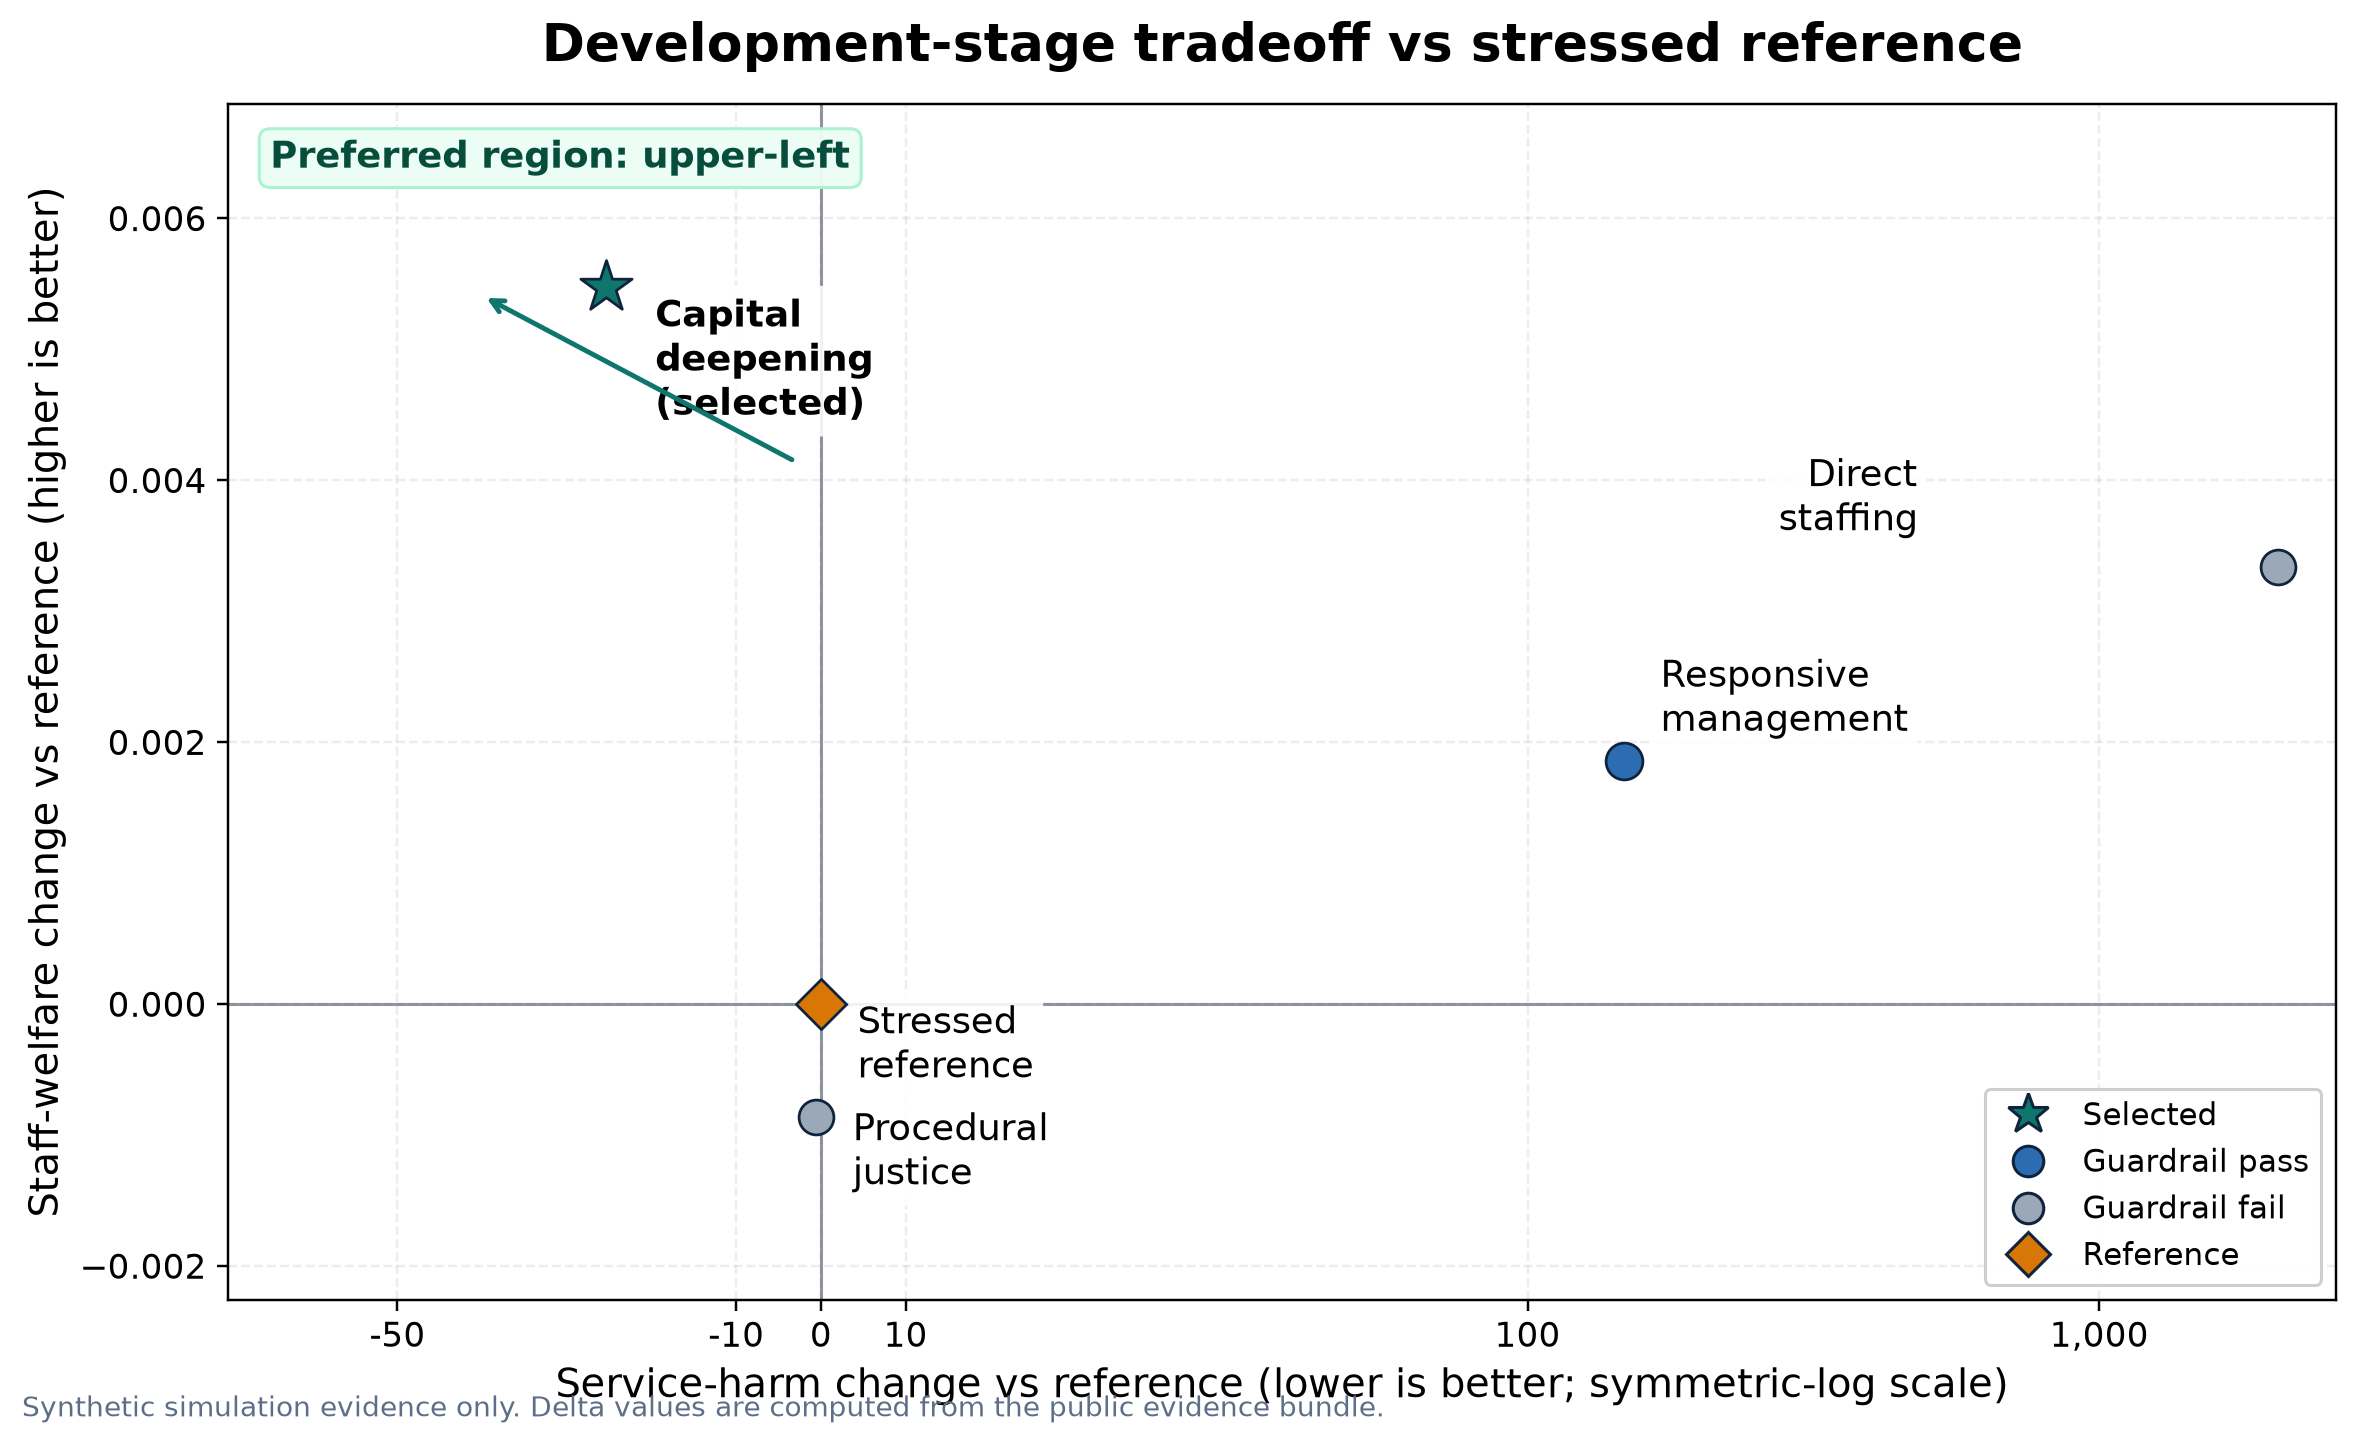
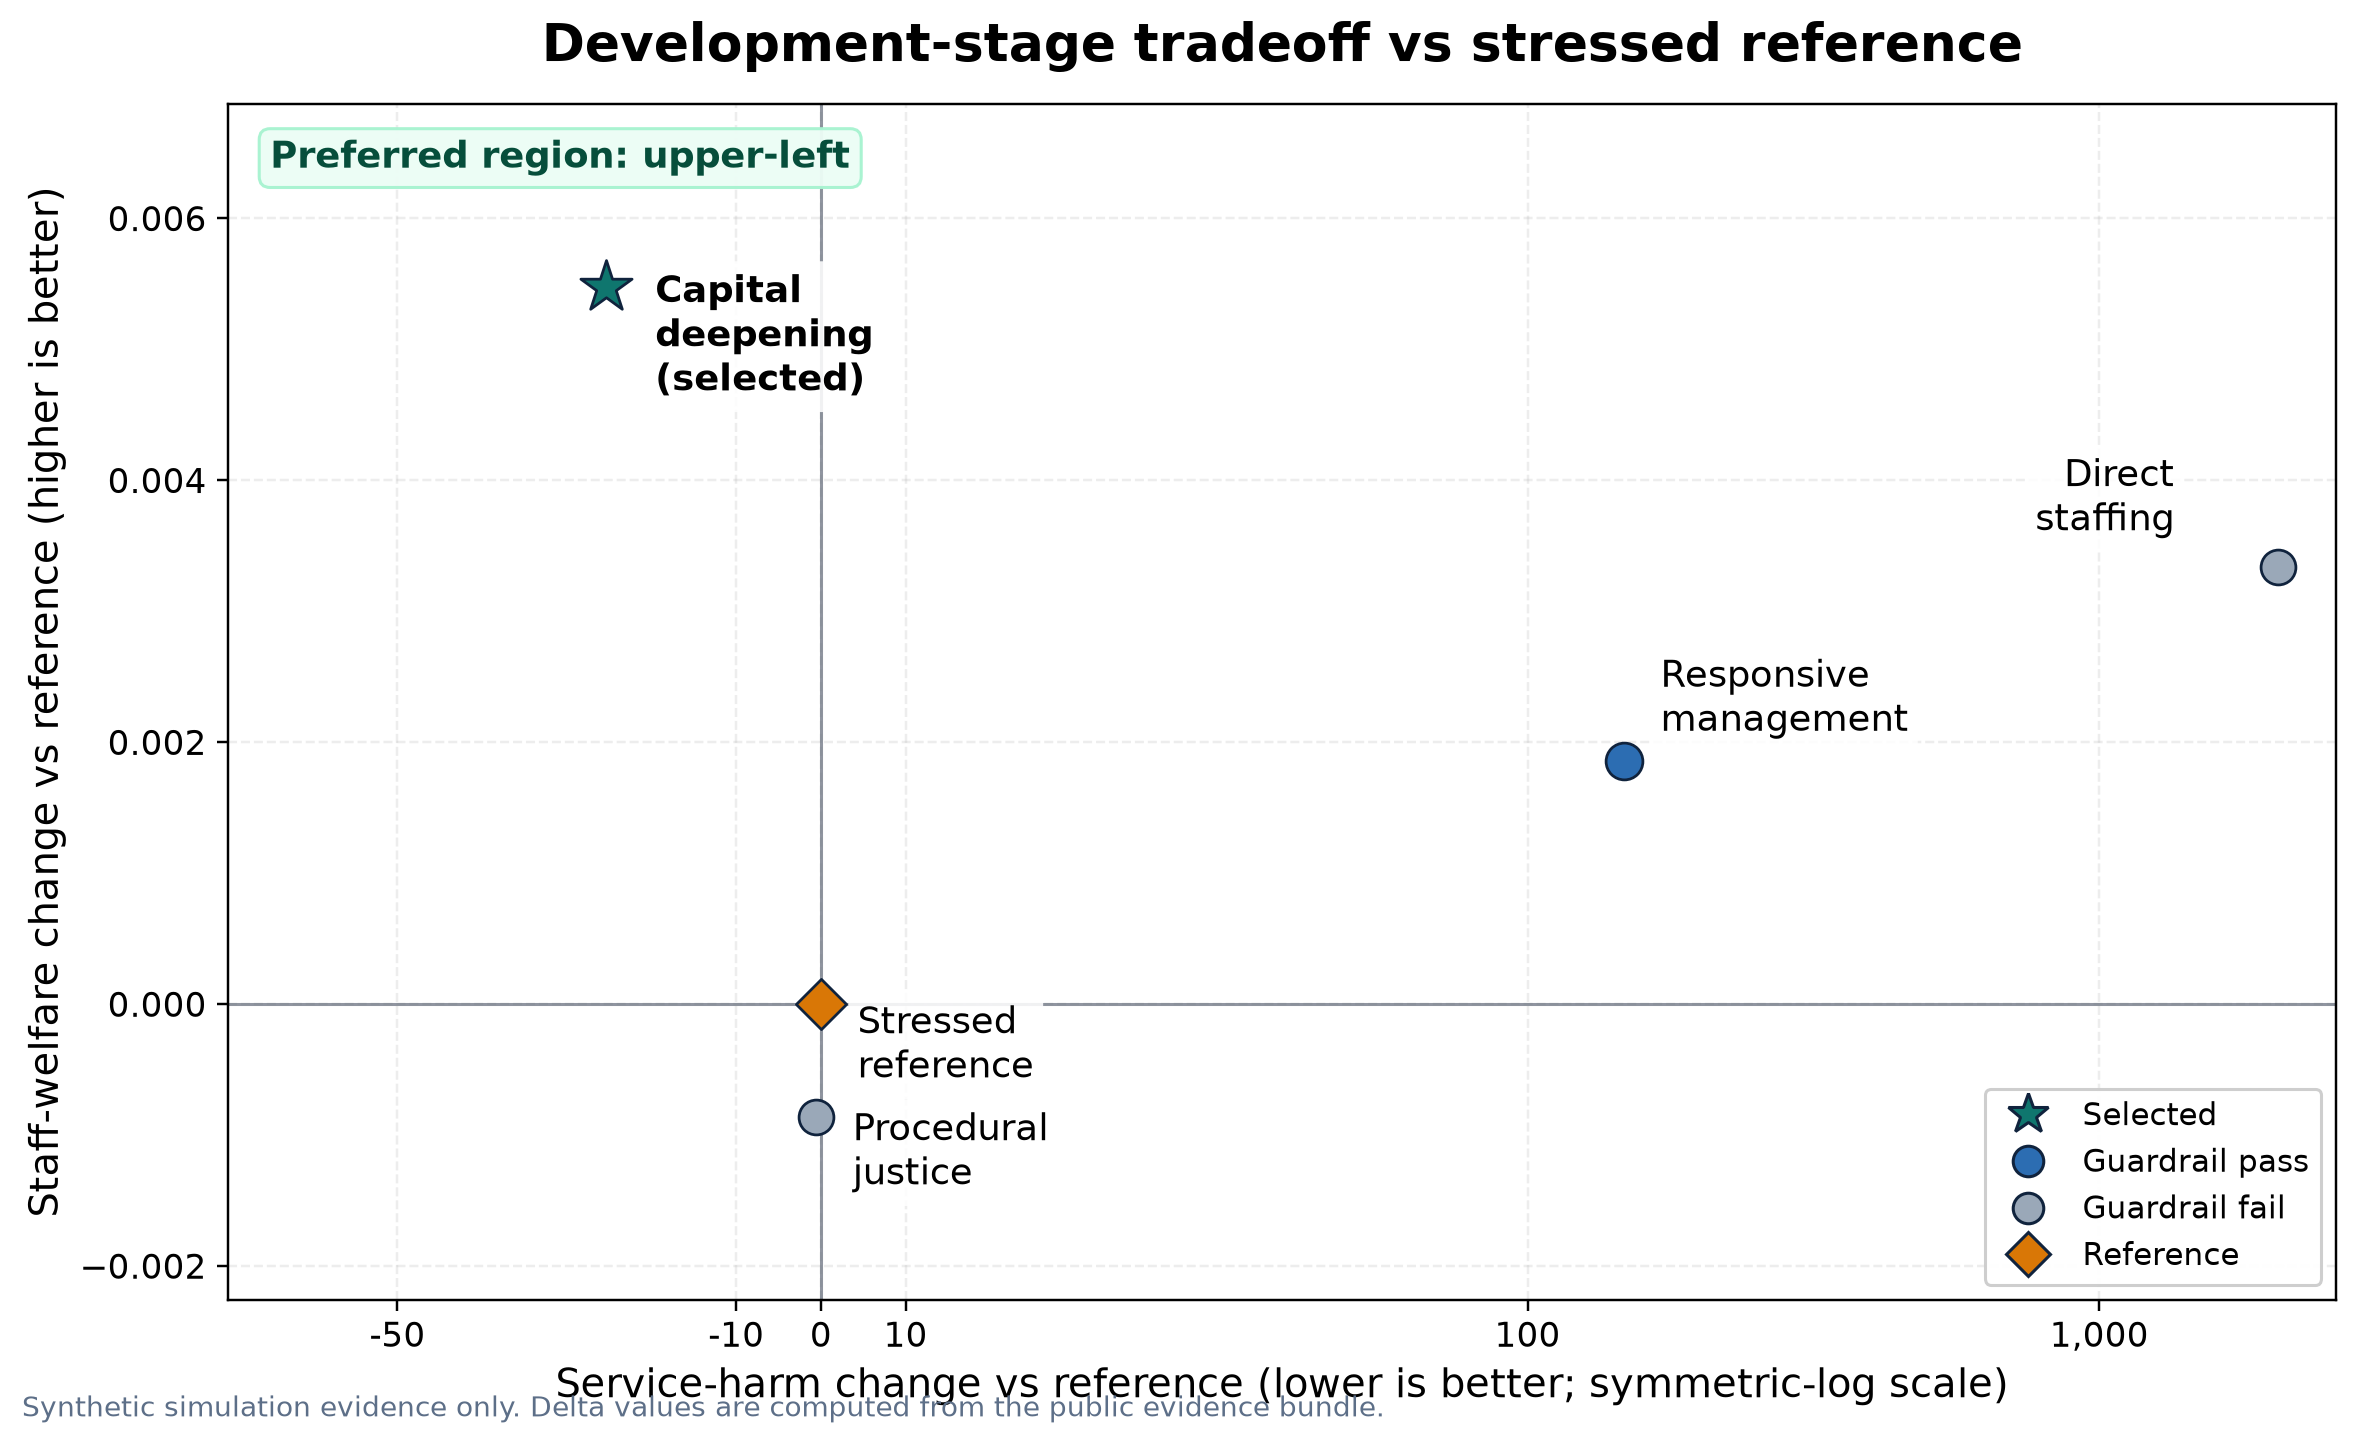
Adjust public tradeoff figure label layout

diff --git a/src/civic_policy_scientist/plotting.py b/src/civic_policy_scientist/plotting.py
@@ -141,8 +141,8 @@ def plot_primary_welfare_vs_service_loss(development: dict[str, Any], out_dir: s
         "synthetic_stressed_reference_v2": (12, -24),
         "responsive_management_pathway": (12, 10),
         "procedural_justice_pathway": (12, -22),
-        "capital_deepening_pathway": (16, -42),
-        "direct_staffing_pathway": (-118, 12),
+        "capital_deepening_pathway": (16, -34),
+        "direct_staffing_pathway": (-34, 12),
     }
     for p in points:
         label = _pretty_label(p["label"])
@@ -185,13 +185,8 @@ def plot_primary_welfare_vs_service_loss(development: dict[str, Any], out_dir: s
         color="#064e3b",
         bbox={"boxstyle": "round,pad=0.3", "fc": "#ecfdf5", "ec": "#a7f3d0", "alpha": 0.96},
     )
-    ax.annotate(
-        "",
-        xy=(0.12, 0.84),
-        xytext=(0.27, 0.70),
-        xycoords="axes fraction",
-        arrowprops={"arrowstyle": "->", "lw": 1.6, "color": "#0f766e"},
-    )
+    # The preferred-region cue is kept as a badge only.
+    # Removing the arrow avoids visual interference with the selected-policy label.
 
     handles = [
         plt.Line2D([0], [0], marker=style["selected"]["marker"], color="w", markerfacecolor=style["selected"]["color"], markeredgecolor="#10233d", markersize=14, label="Selected"),